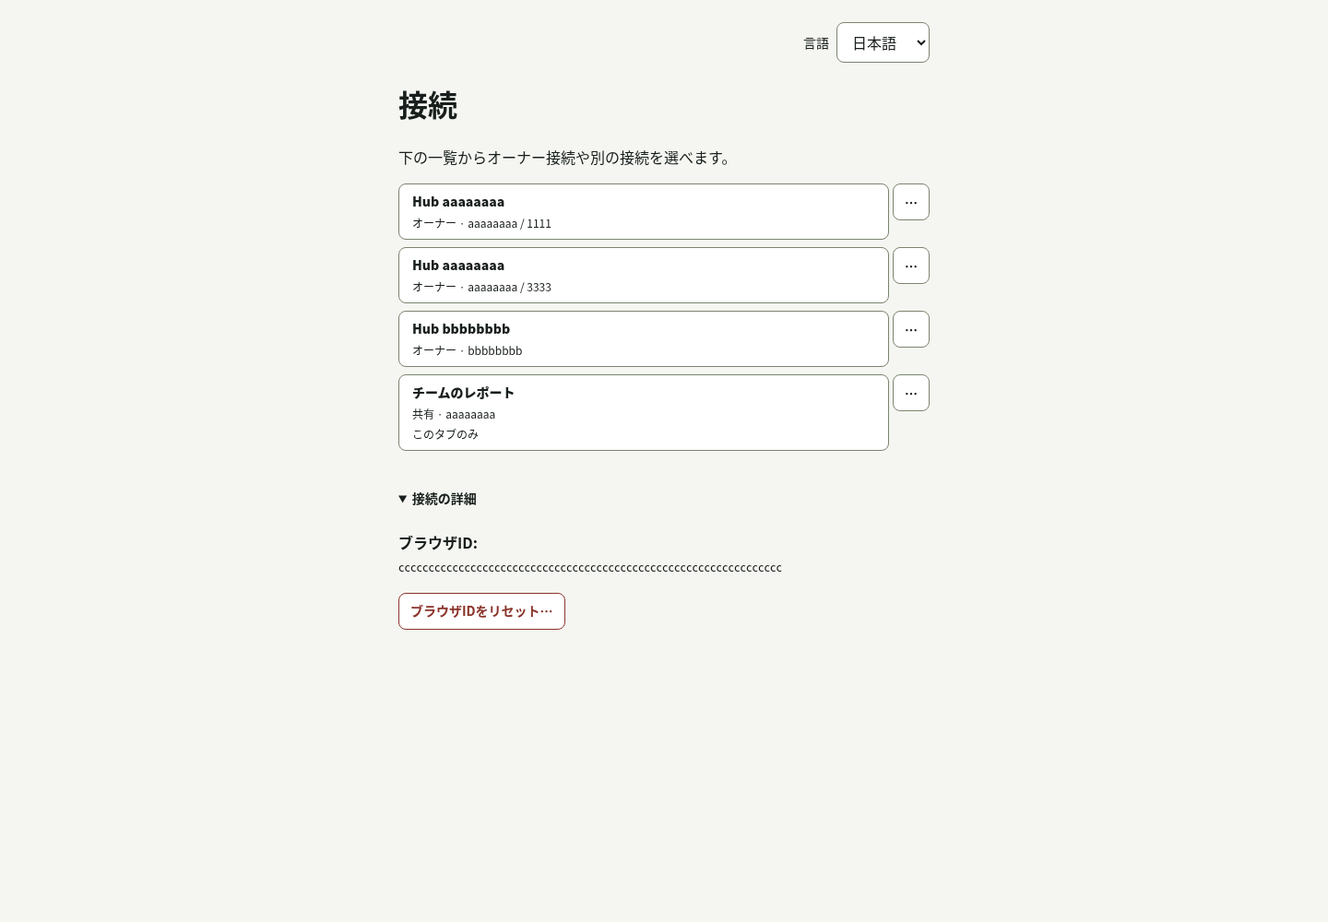
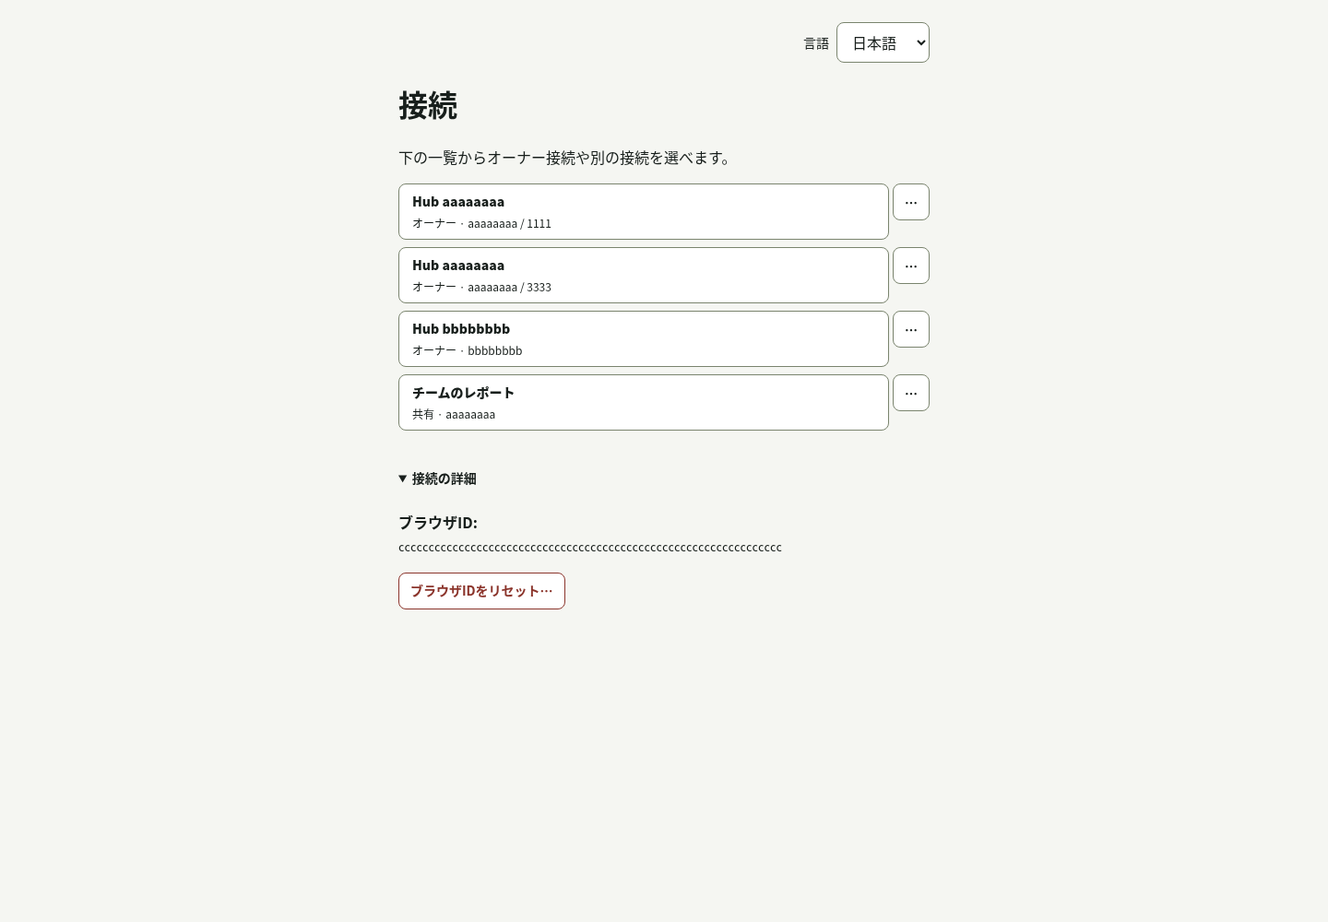
move context buttons

Changed region(s): [[0.2812, 0.465, 0.5938, 0.682]]

diff --git a/packages/hub-ui/src/DashboardWorkspace.tsx b/packages/hub-ui/src/DashboardWorkspace.tsx
@@ -18,7 +18,7 @@ import { emptyDashboard, useDashboardEditor } from './useDashboardEditor.js';
 import { useDashboards } from './useDashboards.js';
 import { useDashboardNavigation } from './DashboardNavigation.js';
 
-export function DashboardWorkspace({ environment, connectionUi, connectionSidebar, onLocationChange, connectionNotice, connectionName, browserIdentity, renderSharing }: { environment: DashboardEnvironment; connectionUi?: ReactNode; connectionSidebar?: ReactNode; onLocationChange?: (location: string) => void; connectionNotice?: ReactNode; connectionName?: string; browserIdentity?: BrowserIdentitySettings; renderSharing?: (board: Dashboard) => ReactNode }) {
+export function DashboardWorkspace({ environment, connectionUi, connectionSidebar, connectionActions, onLocationChange, connectionNotice, connectionName, browserIdentity, renderSharing }: { environment: DashboardEnvironment; connectionUi?: ReactNode; connectionSidebar?: ReactNode; connectionActions?: ReactNode; onLocationChange?: (location: string) => void; connectionNotice?: ReactNode; connectionName?: string; browserIdentity?: BrowserIdentitySettings; renderSharing?: (board: Dashboard) => ReactNode }) {
   const { t } = useTranslation();
   const session = useA2uiSource(environment.session);
   const services: readonly ServiceView[] = session.services;
@@ -308,8 +308,17 @@ export function DashboardWorkspace({ environment, connectionUi, connectionSideba
       }}>{t('settings.title')}</Button></div>
     </aside>
     <main id="workspace" tabIndex={-1} className="workspace">
-      <div className="workspace-status"><div className="workspace-connection"><span className="sr-only" role="status">{connectionSidebar && t('workspace.connectionStatus', { target: connectionName, status: connectionStatus })}</span>{connectionSidebar && !board ? <Button className="connection-switch" data-connection-state={session.status.replace(/…$/, '')} aria-controls="dashboard-navigation" onClick={() => { setNavOpen(true); requestAnimationFrame(() => document.querySelector<HTMLElement>('.sidebar .shared-connections h2')?.focus()); }}>{connectionName} · {connectionStatus} — {t('connection.switch')}</Button> : <ConnectionMenu name={connectionName || t(direct ? 'workspace.gateways' : 'workspace.localHub')} status={session.status.replace(/…$/, '')} statusLabel={connectionStatus} available={available} readOnly={board} />}
-      {board && <Button className="exit-board" onClick={() => { setBoard(false); requestAnimationFrame(() => { if (boardTrigger.current) boardTrigger.current.focus(); else focusMain(); }); }}>{t('workspace.exitBoard')}</Button>}</div></div>
+      <div className="workspace-status"><div className="workspace-connection">
+        <span className="sr-only" role="status">{connectionSidebar && t('workspace.connectionStatus', { target: connectionName, status: connectionStatus })}</span>
+        {connectionSidebar && !board ? <>
+          <div className="connection-context">
+            <div className="connection-context-copy"><strong>{connectionName}</strong><span>{t(shared ? 'connection.shareRole' : 'connection.ownerRole')} · {connectionStatus}</span></div>
+            <Button className="connection-switch" data-connection-state={session.status.replace(/…$/, '')} aria-controls="dashboard-navigation" onClick={() => { setNavOpen(true); requestAnimationFrame(() => document.querySelector<HTMLElement>('.sidebar .shared-connections h2')?.focus()); }}>{t('connection.switch')}</Button>
+          </div>
+          {connectionActions}
+        </> : <ConnectionMenu name={connectionName || t(direct ? 'workspace.gateways' : 'workspace.localHub')} status={session.status.replace(/…$/, '')} statusLabel={connectionStatus} available={available} readOnly={board} />}
+        {board && <Button className="exit-board" onClick={() => { setBoard(false); requestAnimationFrame(() => { if (boardTrigger.current) boardTrigger.current.focus(); else focusMain(); }); }}>{t('workspace.exitBoard')}</Button>}
+      </div></div>
 
       <header className="page-header">
         <div className="header-copy">

diff --git a/packages/hub-ui/src/remote/ConnectionControls.tsx b/packages/hub-ui/src/remote/ConnectionControls.tsx
@@ -3,7 +3,6 @@ import { useTranslation } from 'react-i18next';
 import { Button } from '../Button.js';
 import { Modal } from '../dialogs.js';
 import type { ConnectionAction, ConnectionState, ConnectionEntry } from './connection-controller.js';
-import { nativeConnectionLink } from './native-link.js';
 
 export function ConnectionControls({ state, dispatch, heading, showHeading = true, onForget }: {
   state: ConnectionState;
@@ -18,8 +17,6 @@ export function ConnectionControls({ state, dispatch, heading, showHeading = tru
   const [name, setName] = useState('');
   const [invalid, setInvalid] = useState(false);
   const managedEntry = manage && (entries.find(entry => entry.id === manage.entry.id) ?? manage.entry);
-  const managedActive = active?.id === managedEntry?.id ? active : null;
-  const appLink = managedEntry?.link ? nativeConnectionLink(managedEntry.link) : null;
   const label = (entry: ConnectionEntry) => entry.name || t('connection.defaultName');
   const select = (id: string) => { void dispatch({ type: 'select', id }); };
   return <section className="shared-connections" aria-label={t('connection.label')}>
@@ -41,26 +38,17 @@ export function ConnectionControls({ state, dispatch, heading, showHeading = tru
       {error && !active && <Button disabled={busy} onClick={() => { void dispatch({ type: 'retry' }); }}>{t('connection.retryOpen')}</Button>}
     </div>}
     {manage && managedEntry && <Modal className="connection-dialog" labelledBy="connection-manage-title" title={t('connection.manageTitle')} returnTo={manage.trigger} onClose={() => setManage(null)}>
-      {managedActive && <section className="connection-session">
-        <p>{t('connection.current')} · {t(`status.${managedActive.status}` as 'status.Connected')}</p>
-        {!managedActive.owner && managedActive.view && <p>{managedActive.view.permissions.interact ? t('connection.canInteract') : t('connection.viewOnly')} · {managedActive.view.permissions.editLayout ? t('connection.canEdit') : t('connection.noEdit')}</p>}
-        <div className="toolbar">
-          <Button className="connection-disconnect" disabled={busy || !!state.invitation} onClick={() => { setManage(null); void dispatch({ type: 'disconnect' }); }}>{t('connection.disconnect')}</Button>
-        </div>
-      </section>}
       <form onSubmit={event => { event.preventDefault(); if (!name.trim()) { setInvalid(true); return; } void dispatch({ type: 'rename', id: manage.entry.id, name }); }}>
         <label htmlFor="connection-name">{t('connection.name')}</label>
         <input id="connection-name" value={name} maxLength={200} aria-invalid={invalid} aria-describedby={invalid ? 'connection-name-error' : undefined} onChange={e => setName(e.target.value)} />
         {invalid && <p id="connection-name-error" role="alert">{t('workspace.nameRequired')}</p>}
         <Button type="submit" disabled={busy}>{t('connection.rename')}</Button>
       </form>
-      <p role="status">{state.feedback && t(`connection.${state.feedback}`)}</p>
+      <p role="status">{state.feedback === 'nameSaved' && t('connection.nameSaved')}</p>
       {error && <p role="alert">{t(`sessionError.${error.code}`)}</p>}
       <section className="connection-details">
         <dl><dt>{t('connection.hubId')}</dt><dd><code>{managedEntry.hubId}</code></dd><dt>{t('connection.grantId')}</dt><dd><code>{managedEntry.grantId}</code></dd></dl>
-        {appLink && <p><a href={appLink}>{t('native.open')}</a></p>}
       </section>
-      {managedEntry.link && !managedEntry.persistent && <section className="connection-save"><p>{t('connection.saveHelp')}</p><Button disabled={busy} onClick={() => { void dispatch({ type: 'saveShare', id: managedEntry.id }); }}>{t('connection.saveShare')}</Button></section>}
       {onForget && <div className="toolbar connection-forget"><Button disabled={busy} className="danger" onClick={() => { const current = manage; setManage(null); onForget(managedEntry, current.trigger); }}>{t('connection.forget')}</Button></div>}
     </Modal>}
   </section>;

diff --git a/packages/hub-ui/src/styles.css b/packages/hub-ui/src/styles.css
@@ -254,18 +254,26 @@ body { margin: 0; }
 .connection-record.selected .connection-select { border-inline-start: 3px solid var(--omochi-color-accent-solid); padding-inline-start: 12px; }
 .connection-actions { margin-block-start: 16px; }
 .connection-switch { overflow-wrap: anywhere; }
+.connection-context { display: flex; flex: 1 1 280px; align-items: center; gap: var(--omochi-space-4); min-width: 0; }
+.connection-context-copy { flex: 1; min-width: 0; font-size: .875rem; overflow-wrap: anywhere; }
+.connection-context-copy strong, .connection-context-copy > span { display: block; }
+.connection-context-copy > span { color: var(--omochi-color-text-secondary); }
+.connection-context .connection-switch { flex: 0 1 auto; }
+.current-connection-actions { display: flex; flex-wrap: wrap; align-items: center; gap: var(--omochi-space-2); min-width: 0; max-width: 100%; }
+.current-connection-actions .hub-button { overflow-wrap: anywhere; }
+.current-connection-actions .connection-disconnect { margin-inline-start: var(--omochi-space-2); }
+.connection-remembered { max-width: 100%; padding-block: 8px; font-size: .875rem; color: var(--omochi-color-text-secondary); overflow-wrap: anywhere; }
+.invitation-current-connection { margin-block-end: var(--omochi-space-6); }
 .sidebar .picker { color: var(--omochi-color-text-primary); }
 .sidebar .picker :focus-visible { outline-color: var(--omochi-color-focus); }
 .connection-dialog form { display: grid; gap: 12px; }
-.connection-dialog .connection-session { margin-block-end: var(--omochi-space-6); }
-.connection-session p { margin-block: 0 var(--omochi-space-2); }
-.connection-dialog :is(.connection-details, .connection-save, .connection-forget) { margin-block-start: var(--omochi-space-6); }
-.connection-dialog a { color: var(--omochi-color-accent-solid); }
+.connection-dialog :is(.connection-details, .connection-forget) { margin-block-start: var(--omochi-space-6); }
 .board-actions { position: relative; }
 .board-actions > summary { cursor: pointer; padding: 8px 12px; border: 1px solid var(--omochi-color-border-control); border-radius: var(--omochi-radius-control); min-height: 40px; font-size: .875rem; font-weight: 600; line-height: 1.5; background: var(--omochi-color-bg-surface); color: var(--omochi-color-text-primary); }
 .board-actions-menu { position: absolute; z-index: 3; inset-inline-end: 0; min-width: 200px; max-width: calc(100vw - 32px); display: grid; gap: 8px; padding: 12px; background: var(--omochi-color-bg-surface); border: 1px solid var(--omochi-color-border-control); border-radius: calc(var(--omochi-radius-control) + 12px + 1px); box-shadow: var(--omochi-shadow-surface); }
 @media (max-width: 760px) {
-  .connection-switch { width: 100%; }
+  .connection-context { flex-wrap: wrap; }
+  .current-connection-actions .connection-disconnect { margin-inline-start: 0; }
   .board-actions > summary { min-height: 48px; }
 }
 

diff --git a/packages/hub-ui/src/remote/CurrentConnectionActions.tsx b/packages/hub-ui/src/remote/CurrentConnectionActions.tsx
@@ -1,0 +1,35 @@
+import { useId, useRef } from 'react';
+import { useTranslation } from 'react-i18next';
+import { Button } from '../Button.js';
+import type { ConnectionAction, ConnectionState } from './connection-controller.js';
+import { nativeConnectionLink } from './native-link.js';
+
+export function CurrentConnectionActions({ state, dispatch }: {
+  state: ConnectionState;
+  dispatch(action: ConnectionAction): Promise<void>;
+}) {
+  const { t } = useTranslation();
+  const helpId = useId();
+  const remembered = useRef<HTMLSpanElement>(null);
+  const { active, entries, busy, invitation, feedback } = state;
+  if (!active) return null;
+  const link = active.kind === 'public' ? nativeConnectionLink(active.link) : null;
+  const persistent = entries.find(entry => entry.id === active.id)?.persistent;
+  const remember = async () => {
+    await dispatch({ type: 'saveShare', id: active.id });
+    requestAnimationFrame(() => {
+      if (document.activeElement === document.body) remembered.current?.focus();
+    });
+  };
+  return <div className="current-connection-actions" role="group" aria-label={t('connection.current')} data-current-connection-id={active.id}>
+    {link && <>
+      {persistent
+        ? <span className="connection-remembered" ref={remembered} tabIndex={-1}>✓ {t('connection.remembered')}</span>
+        : <Button className="connection-remember" disabled={busy} aria-describedby={helpId} title={t('connection.saveHelp')} onClick={() => { void remember(); }}>{t('connection.saveShare')}</Button>}
+      <span id={helpId} className="sr-only">{t('connection.saveHelp')}</span>
+      <a className="hub-button connection-open-app" href={link}>{t('connection.openApp')}</a>
+    </>}
+    <Button className="connection-disconnect" disabled={busy || !!invitation} onClick={() => { void dispatch({ type: 'disconnect' }); }}>{t('connection.disconnect')}</Button>
+    <span className="sr-only" role="status">{feedback === 'shareSaved' && t('connection.shareSaved')}</span>
+  </div>;
+}

diff --git a/packages/hub-ui/src/remote/ConnectionScreen.tsx b/packages/hub-ui/src/remote/ConnectionScreen.tsx
@@ -7,6 +7,7 @@ import { LanguageSwitcher } from '../LanguageSwitcher.js';
 import { ShareSettings } from '../ShareSettings.js';
 import { ConfirmationDialog, restoreDialogFocus } from '../dialogs.js';
 import { ConnectionControls } from './ConnectionControls.js';
+import { CurrentConnectionActions } from './CurrentConnectionActions.js';
 import { GatewayInvitation } from './GatewayInvitation.js';
 import { ConnectionError, OwnerInvitation } from './OwnerInvitation.js';
 import { OwnerSharingRepository } from './owner-boards.js';
@@ -43,6 +44,7 @@ function Connections(props: ConnectionScreenProps) {
     onForget={(record, trigger) => setForget({ record, trigger })}
   />;
   const notice = !invitation && <ConnectionError error={error} />;
+  const currentActions = <CurrentConnectionActions state={state} dispatch={dispatch} />;
   const identityDetails = <details className="connection-details">
     <summary>{t('connection.details')}</summary>
     {browserId && <dl><dt>{t('connection.browserId')}</dt><dd><code data-browser-id={browserId}>{browserId}</code></dd></dl>}
@@ -58,6 +60,7 @@ function Connections(props: ConnectionScreenProps) {
       ownsProfile={state.ownsProfile}
       connections={<>
         {!active && notice}
+        {active && <section className="invitation-current-connection"><p>{t('connection.current')} · {connectionName}</p>{currentActions}</section>}
         <ConnectionControls state={state} dispatch={dispatch} />
         {!active && identityDetails}
       </>}
@@ -73,6 +76,7 @@ function Connections(props: ConnectionScreenProps) {
           : { kind: 'share', permissions: active.view?.permissions ?? { interact: false, editLayout: false } },
       }}
       connectionSidebar={controls}
+      connectionActions={currentActions}
       onLocationChange={rememberLocation}
       connectionNotice={notice}
       connectionName={connectionName}

diff --git a/packages/hub-ui/src/locales/ja.ts b/packages/hub-ui/src/locales/ja.ts
@@ -219,10 +219,12 @@ export default {
   },
   "connection": {
     "nameSaved": "接続名を保存しました。",
-    "shareSaved": "共有接続を保存しました。",
+    "shareSaved": "このブラウザに接続を記憶しました。",
     "loading": "接続を読み込み中…",
     "saveHelp": "リンクとアクセスに必要な秘密情報をこのブラウザに保存し、タブを閉じても開けるようにします。保存しても権限は変わりません。",
-    "saveShare": "この共有接続を保存",
+    "saveShare": "接続を記憶",
+    "remembered": "記憶済み",
+    "openApp": "アプリで開く",
     "grantId": "アクセスID",
     "rename": "名前を保存",
     "name": "接続名",
@@ -264,7 +266,7 @@ export default {
     "forgetTitle": "「{{name}}」の接続情報を削除しますか？",
     "forgetHelp": "このブラウザの接続情報を削除します。現在の接続・ダッシュボード・アクセス権は残ります。再接続には元の招待か新しい招待が必要です。",
     "forgetConfirm": "接続情報を削除",
-    "disconnect": "ハブから切断",
+    "disconnect": "切断",
     "retry": "ハブへの接続を再試行",
     "retryOpen": "接続の読み込みを再試行",
     "reset": "ブラウザIDをリセット…",

diff --git a/packages/hub-ui/src/locales/en.ts b/packages/hub-ui/src/locales/en.ts
@@ -217,10 +217,12 @@ export default {
   },
   "connection": {
     "nameSaved": "Connection name saved.",
-    "shareSaved": "Shared connection saved.",
+    "shareSaved": "Connection remembered in this browser.",
     "loading": "Loading connections…",
     "saveHelp": "Save this link and its access secret in this browser to reopen it after closing the tab. Saving does not change its permissions.",
-    "saveShare": "Save this shared connection",
+    "saveShare": "Remember connection",
+    "remembered": "Remembered",
+    "openApp": "Open in app",
     "grantId": "Access ID",
     "rename": "Save name",
     "name": "Connection name",
@@ -262,7 +264,7 @@ export default {
     "forgetTitle": "Forget the connection to “{{name}}”?",
     "forgetHelp": "Remove this browser’s saved connection. Active sessions, dashboards and hub access remain. To reconnect, reopen the original invitation or ask the owner for a new one.",
     "forgetConfirm": "Forget connection",
-    "disconnect": "Disconnect from Hub",
+    "disconnect": "Disconnect",
     "retry": "Retry hub connection",
     "retryOpen": "Retry opening connection",
     "reset": "Reset browser identity…",

diff --git a/docs/dashboard-ui.md b/docs/dashboard-ui.md
@@ -42,6 +42,7 @@ Same seeded dashboard before and after the change:
 [Owner connections](assets/dashboard-ui/connections-owner.png) ·
 [Shared connection](assets/dashboard-ui/connections-share.png) ·
 [Mobile connections](assets/dashboard-ui/connections-mobile.png) ·
+[Mobile connection actions](assets/dashboard-ui/connection-actions-mobile.png) ·
 [Connection manager](assets/dashboard-ui/connections-manage.png) ·
 [Disconnected screen](assets/dashboard-ui/connections-idle.png)
 
@@ -64,10 +65,16 @@ The mobile **Switch connection** control opens the same sidebar. Selection
 restores the last dashboard/preset and board-view mode for that connection.
 
 The sidebar is connection navigation: it does not repeat the shared-view banner,
-connection details, or disconnect action. Per-row **Manage** opens details, a
-local display name, native-app handoff, explicit shared-link saving, and removal.
-Only the current connection's manager offers **Disconnect from Hub**. Recovery
-keeps **Retry** beside the connection list. Public links opened in the tab remain available when switching
+connection details, or disconnect action. Per-row **Manage** opens IDs, a local
+display name and removal of the remembered entry. The main content's connection
+header shows the current name, authority and status beside **Remember connection**,
+**Open in app** and **Disconnect**. Remember and app handoff appear for public
+shares; remembering replaces the button with a static **Remembered** status and
+preserves keyboard focus. The actions wrap on narrow screens. Opening another
+record's manager never changes their target. The gateway invitation also exposes
+current-connection actions within its connection chooser, outside record menus.
+Board view keeps its compact connection display. Recovery keeps **Retry** beside
+the connection list. Public links opened in the tab remain available when switching
 away; explicit save persists their bearer in a separate IndexedDB connection
 catalog. Catalog patches read the current record inside an IDB transaction;
 metadata updates never write cached bearer credentials. Cross-tab notifications
@@ -91,8 +98,9 @@ view and Delete under **More actions**; Delete retains confirmation.
 `bun tests/browser/connections.mjs` checks cold shared startup, multi-Hub board
 restoration, explicit share saving, new-tab access, endpoint release, 320px/200%
 text layouts and focus recovery with real React, IndexedDB and Web Locks and
-controlled transport responses. It also verifies that only the current
-connection's manager offers disconnect and that native handoff remains available.
+controlled transport responses. It also verifies that header actions target the
+current connection, record menus do not contain session actions, and native
+handoff and focus remain available after remembering a connection.
 Screenshots are written to
 `/tmp/omochi-connections-screenshots` (or `SCREENSHOT_DIR`).
 
@@ -100,14 +108,15 @@ The connection layout was additionally checked at 320, 360, 390, 640, 760, 761,
 1024, 1440 and 1920 CSS pixels in both directions, using English, Japanese,
 German test strings and pseudo-localization. The checks include long names, 200%
 text, simulated 200% browser-zoom geometry, and scrolling controls beneath the
-measured sticky dialog header. Connection names wrap in the switch control;
+measured sticky dialog header. Connection names wrap in the connection header;
 management titles stay short while the full editable name remains in the form.
 Real-device Safari and browser zoom shortcuts were not verified.
 
 The pre-bootstrap native-app link remains available if transport initialization
 fails. Once React loads, the invitation dialog owns that action, so registering
 or dismissing the invitation removes it. Public-share native handoff is available
-under the shared connection's **Manage** details. These labels follow the selected interface language.
+beside the active connection's name in the main content header. These labels
+follow the selected interface language.
 
 The controlled-session browser regression checks are run with
 `bun tests/browser/gateway-reconnect.mjs`. They cover modal dismissal, owner

diff --git a/apps/site/src/content/docs/docs/guides/dashboards.md b/apps/site/src/content/docs/docs/guides/dashboards.md
@@ -46,13 +46,15 @@ omochi-ui hub --remote
 直前のダッシュボードが復元されます。共有とオーナーの権限は別です。
 ハブを管理するには、一覧のオーナー接続を選んでください。
 
-接続の **…** から、名前の変更・IDの確認・アプリで開く・保存済み情報の削除ができます。
-**この共有接続を保存** は、リンクとアクセスに必要な秘密情報をこのブラウザに
+接続の **…** から、名前の変更・IDの確認・保存済み情報の削除ができます。
+画面上部の接続名の横には、現在の接続に対する **接続を記憶**・**アプリで開く**・**切断** を表示します。
+**接続を記憶** は、リンクとアクセスに必要な秘密情報をこのブラウザに
 保存し、タブを閉じても開けるようにします。保存しない共有は現在のタブ内だけで
 利用できます。保存しても権限は増えず、保存済み接続を削除してもハブ側の
-アクセス権は取り消されません。
+アクセス権は取り消されません。記憶するとボタンが **記憶済み** に変わります。
+**接続を記憶** と **アプリで開く** は、共有リンクで接続しているときに利用できます。
 
-狭い画面では **接続を切り替え** から一覧を開きます。現在の接続の **…** から **ハブから切断** すると、
+狭い画面では **接続を切り替え** から一覧を開きます。画面上部の **切断** を押すと、
 別のタブでブラウザIDを使って接続できます。オーナー招待が開いている場合は、
 先に完了するか閉じてください。エクスポート・ボード表示・削除は **その他** に
 あります。ダッシュボードの削除には引き続き確認が必要です。

diff --git a/apps/site/src/content/docs/en/docs/guides/dashboards.md b/apps/site/src/content/docs/en/docs/guides/dashboards.md
@@ -46,14 +46,17 @@ Select a connection, then choose one of its dashboards below. Switching back
 restores your previous dashboard. Shared access stays separate from owner access;
 choose an owner connection in the list to manage the Hub.
 
-Open a connection's **…** control to rename it, inspect its IDs, open a shared link in the app, or remove its
-saved entry. **Save this shared connection** keeps the link and its access secret
+Open a connection's **…** control to rename it, inspect its IDs, or remove its
+saved entry. The header places **Remember connection**, **Open in app** and
+**Disconnect** beside the current connection's name. **Remember connection** keeps the link and its access secret
 in this browser so it can be opened after closing the tab. Without saving,
 opened shares remain available only in the current tab. Saving does not increase
-permissions, and removing a saved connection does not revoke Hub access.
+permissions, and removing a saved connection does not revoke Hub access. The
+button changes to **Remembered** after saving. Remember and app handoff are
+available when connected through a public sharing link.
 
-On narrow screens, **Switch connection** opens the connection list. Choose **Disconnect
-from Hub** in the current connection's **…** control to make the browser identity available to another tab. Close or finish
+On narrow screens, **Switch connection** opens the connection list. Choose
+**Disconnect** in the header to make the browser identity available to another tab. Close or finish
 an owner invitation before disconnecting. Export, Board view and Delete are in
 **More actions**; deleting a dashboard still requires confirmation.
 When disconnected, choose a connection from the centered list. **Connection details** below it contains the browser ID and its reset action.
